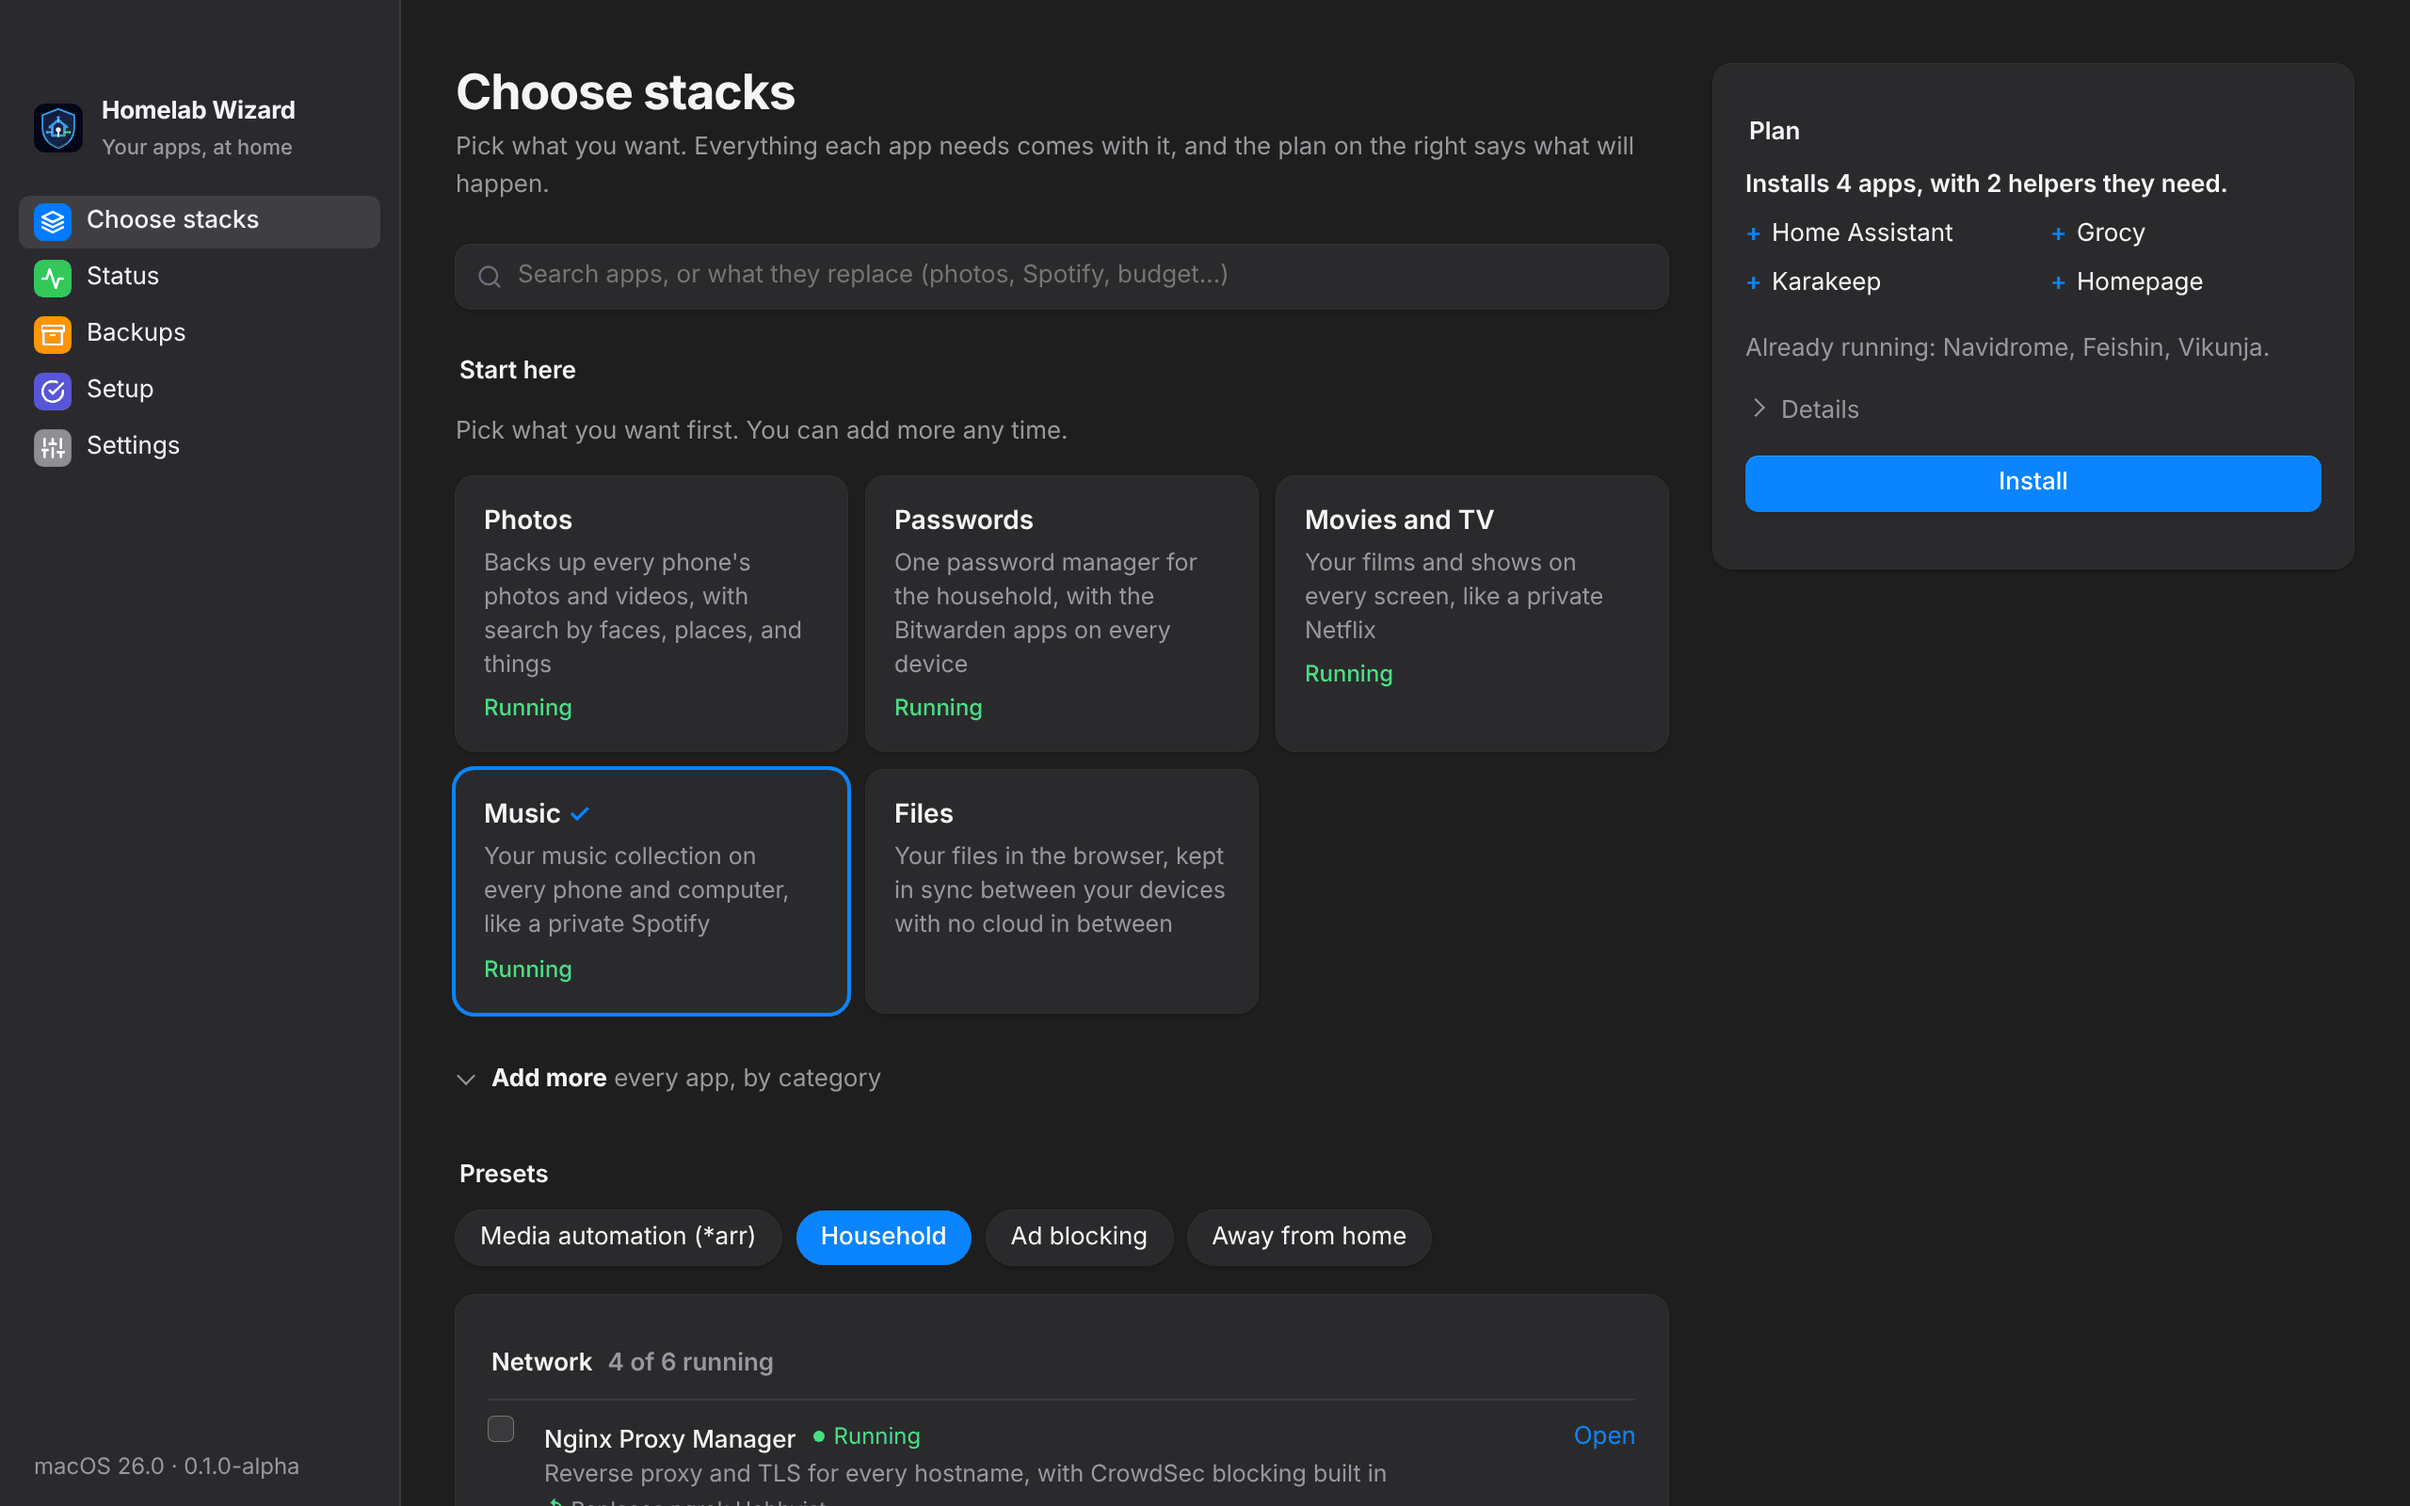
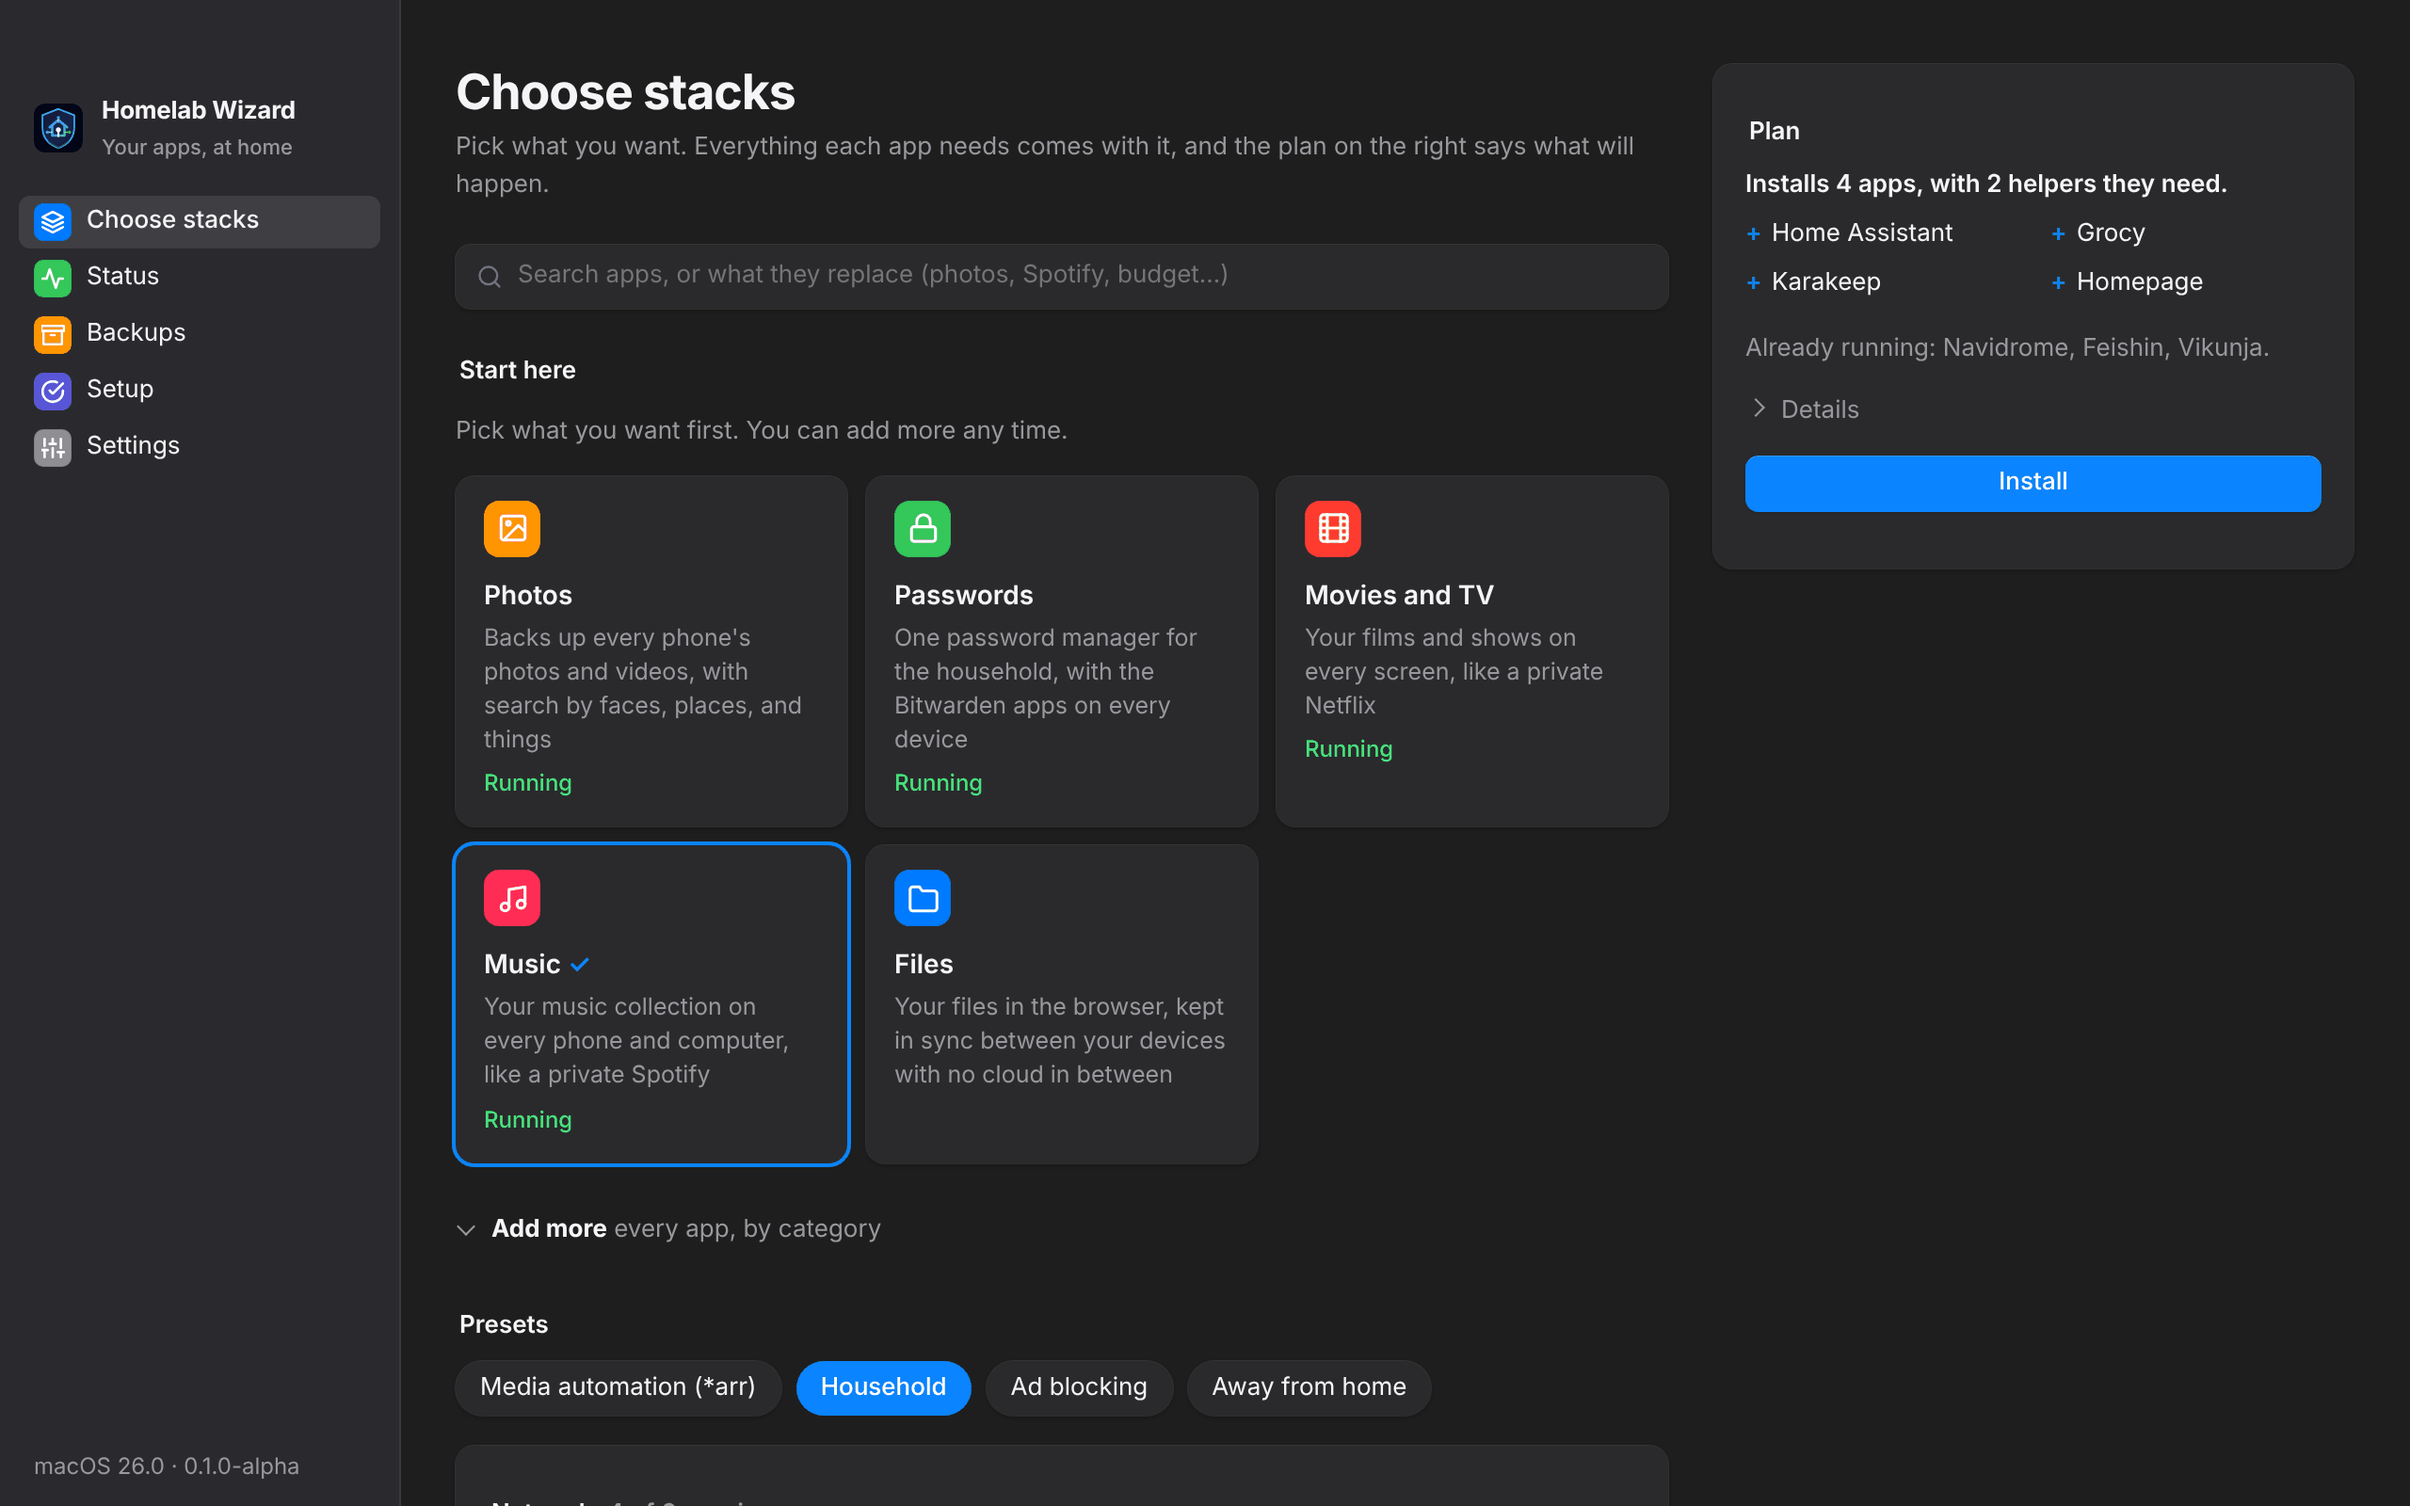
Choose: tinted symbols on the starter cards (#61)

diff --git a/web/dist/app.js b/web/dist/app.js
@@ -36,6 +36,11 @@ const icons = {
   check: '<polyline points="20 6 9 17 4 12"/>',
   phone: '<rect x="5" y="2" width="14" height="20" rx="2" ry="2"/><line x1="12" y1="18" x2="12.01" y2="18"/>',
   key: '<path d="M21 2l-2 2m-7.61 7.61a5.5 5.5 0 1 1-7.778 7.778 5.5 5.5 0 0 1 7.777-7.777zm0 0L15.5 7.5m0 0l3 3L22 7l-3-3m-3.5 3.5L19 4"/>',
+  photos: '<rect x="3" y="3" width="18" height="18" rx="2" ry="2"/><circle cx="8.5" cy="8.5" r="1.5"/><polyline points="21 15 16 10 5 21"/>',
+  lock: '<rect x="3" y="11" width="18" height="11" rx="2" ry="2"/><path d="M7 11V7a5 5 0 0 1 10 0v4"/>',
+  film: '<rect x="2" y="2" width="20" height="20" rx="2.18" ry="2.18"/><line x1="7" y1="2" x2="7" y2="22"/><line x1="17" y1="2" x2="17" y2="22"/><line x1="2" y1="12" x2="22" y2="12"/><line x1="2" y1="7" x2="7" y2="7"/><line x1="2" y1="17" x2="7" y2="17"/><line x1="17" y1="17" x2="22" y2="17"/><line x1="17" y1="7" x2="22" y2="7"/>',
+  music: '<path d="M9 18V5l12-2v13"/><circle cx="6" cy="18" r="3"/><circle cx="18" cy="16" r="3"/>',
+  folder: '<path d="M22 19a2 2 0 0 1-2 2H4a2 2 0 0 1-2-2V5a2 2 0 0 1 2-2h5l2 3h9a2 2 0 0 1 2 2z"/>',
 };
 function icon(name) {
   const svg = document.createElementNS('http://www.w3.org/2000/svg', 'svg');
@@ -156,13 +161,17 @@ async function loadCatalog() {
     chip.apps = p.apps;
     return chip;
   }));
+  const starterLooks = { photos: ['photos', '#ff9500'], passwords: ['lock', '#34c759'], movies: ['film', '#ff3b30'], music: ['music', '#ff2d55'], files: ['folder', '#007aff'] };
   // The starter picks come first; the full list waits behind Add more.
   const starters = catalog.presets.filter((p) => p.starter);
   $('starterBox').hidden = !starters.length;
   if (!starters.length) $('more').open = true;
   $('starters').replaceChildren(...starters.map((p) => {
     const running = p.apps.every((id) => statusById[id]?.state === 'running');
+    // A tinted symbol for each starter, as an app's icon in System Settings.
+    const [glyph, tint] = starterLooks[p.id] || [];
     const card = h('button', { class: 'starter', onclick: toggle(p) },
+      glyph ? h('span', { class: 'glyph', style: `--tint:${tint}` }, icon(glyph)) : null,
       h('strong', {}, p.name),
       h('span', { class: 'desc' }, p.description || ''),
       running ? h('span', { class: 'state' }, 'Running') : null);

diff --git a/web/dist/style.css b/web/dist/style.css
@@ -703,3 +703,6 @@ html.os-mac .whatsnew > summary { list-style:none; }
 html.os-mac .whatsnew > summary::-webkit-details-marker { display:none; }
 html.os-mac .whatsnew > summary::before { content:""; display:inline-block; width:6px; height:6px; border:solid currentColor; border-width:0 1.6px 1.6px 0; transform:rotate(-45deg); margin:0 10px 2px 2px; transition:transform .15s; }
 html.os-mac .whatsnew[open] > summary::before { transform:rotate(45deg); }
+/* Starter cards: a white symbol on a tinted rounded square. */
+.starter .glyph { display:inline-flex; align-items:center; justify-content:center; width:30px; height:30px; border-radius:8px; background:var(--tint); color:#fff; margin-bottom:6px; box-shadow:inset 0 0 0 .5px rgba(0,0,0,.08); }
+.starter .glyph .icon { width:17px; height:17px; stroke-width:2.2; }

diff --git a/CHANGELOG.md b/CHANGELOG.md
@@ -6,6 +6,7 @@ All notable changes to this homelab are recorded here. The format follows [Keep 
 
 ### Added
 
+- Choose: each starter (Photos, Passwords, Movies and TV, Music, Files) has its symbol on a tinted square, as apps do in System Settings.
 - The phone companion feels like an iPhone app: each app is two tight lines (its name; its state, uptime and address), the tiles' numbers fit, backup jobs show their size and times beneath the name, and the tab bar is plain glyphs tinted blue when chosen, on a blurred bar.
 - Backups: *Moving to a new machine* and *How the backups work* fold into one row each, with a one-line summary, until opened.
 - Choose: the app list as a quiet Mac list (each app's state as a coloured dot and word, its description in grey, what it replaces smaller beneath), and a disabled Install button greys out instead of fading blue.
